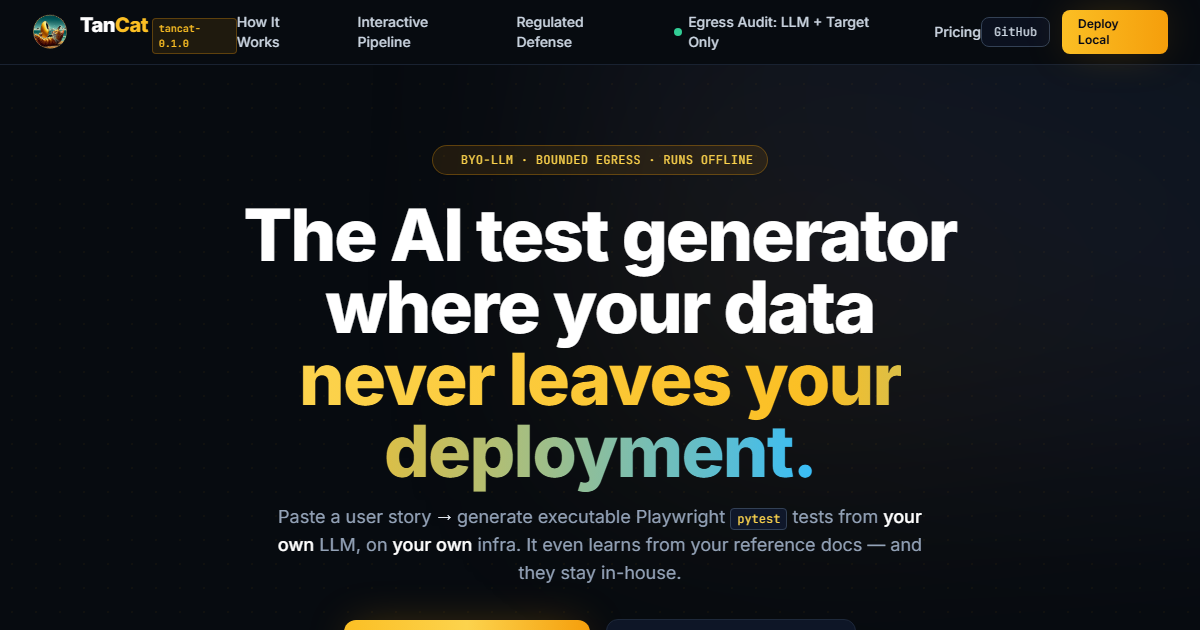
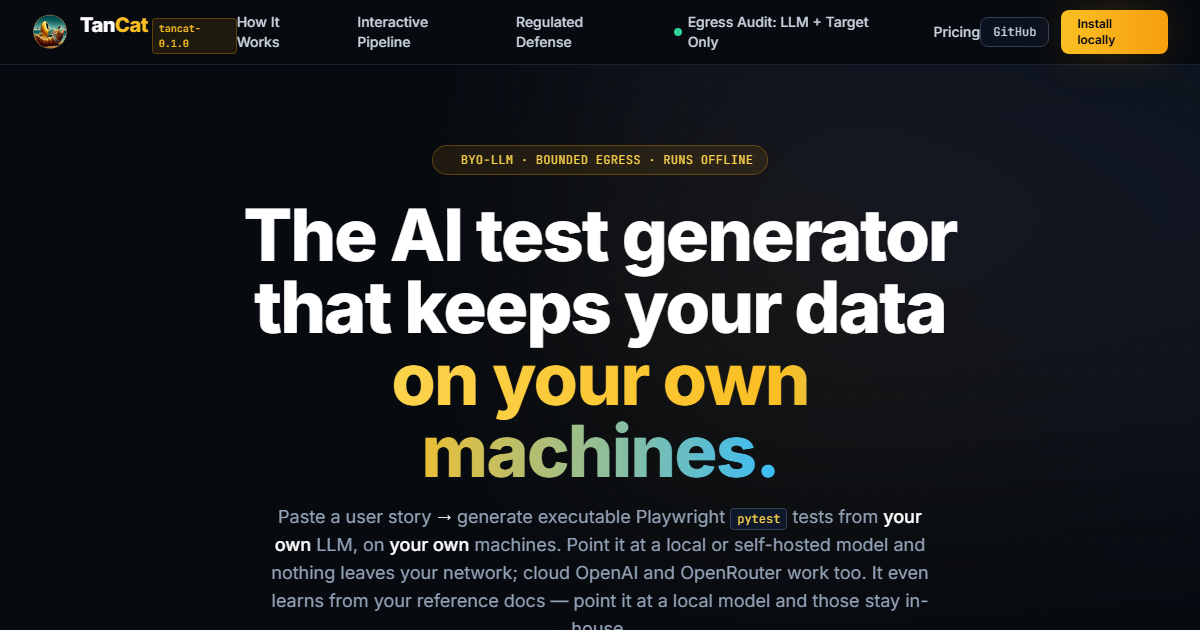
fix(landing): rewrite copy to what the code does (pre-launch review t-0390)
Owner chose to rewrite the copy to match the product; the entitlement gates are
deliberately NOT wired. Carried the two prerelease-landing fixes (f7e5ffe drop
air-gap wording, 7e7d142 rebuild assets) onto this branch first, so the badge and
asset work is not done twice.

Blockers
1. terms.html: the live placeholder ("we will name the provider here") is gone.
   Names Lemon Squeezy, links its terms, and adds a 30-day refund window.
   privacy.html names Lemon Squeezy as the merchant of record too. The processor
   line named jsDelivr, which the page never loads: it now names the real host,
   cdn.tailwindcss.com (self-hosting Tailwind is left as a follow-up - it needs a
   Tailwind build step and risks a visual change; the brief allows naming the host).
2. Headline qualified everywhere: title, meta description, og:title/description,
   twitter:title/description, og:image:alt, hero h1, hero subline and footer. The
   claim now says "keeps your data on your own machines", with the hero subline
   and meta stating the qualifier: point it at a local or self-hosted model and
   nothing leaves your network; cloud OpenAI and OpenRouter work too.
3. Free/Pro pricing rewritten to what the code enforces: Pro = unlimited runs,
   Jira evidence export, support and updates (POM/multi-site/CI dropped as Pro
   differentiators - they are not gated; Jira, which IS gated, added). Free = 25
   test runs per 30 days + unlimited evidence exports; the unenforced "10
[…]

diff --git a/landing/index.html b/landing/index.html
@@ -2,9 +2,9 @@
 <html class="scroll-smooth" lang="en"><head>
 <meta charset="utf-8"/>
 <meta content="width=device-width, initial-scale=1.0" name="viewport"/>
-<meta name="description" content="TanCat generates executable Playwright pytest tests from your user stories using your own LLM, inside your own network. Bounded egress, verified in CI."/>
+<meta name="description" content="TanCat generates executable Playwright pytest tests from your user stories with your own LLM, on your own machines. Point it at a local or self-hosted model and nothing leaves your network; cloud OpenAI and OpenRouter work too. Bounded egress, verified in CI."/>
 <meta name="theme-color" content="#070b10"/>
-<title>TanCat - The AI test generator where your data never leaves your deployment</title>
+<title>TanCat - The AI test generator that keeps your data on your own machines</title>
 <link rel="canonical" href="https://tancat.dev/"/>
 <link rel="icon" href="favicon.ico" sizes="any"/>
 <link rel="icon" href="icon-192.png" type="image/png" sizes="192x192"/>
@@ -13,16 +13,16 @@
 <meta property="og:site_name" content="TanCat"/>
 <meta property="og:locale" content="en_GB"/>
 <meta property="og:url" content="https://tancat.dev/"/>
-<meta property="og:title" content="TanCat - The AI test generator where your data never leaves your deployment"/>
-<meta property="og:description" content="Generate executable Playwright pytest tests from your user stories with your own LLM, inside your own network. Bounded egress, verified in CI."/>
+<meta property="og:title" content="TanCat - the AI test generator that keeps your data on your own machines"/>
+<meta property="og:description" content="Generate executable Playwright pytest tests from your user stories with your own LLM, on your own machines. Point it at a local or self-hosted model and nothing leaves your network; it also supports cloud OpenAI and OpenRouter. Bounded egress, verified in CI."/>
 <meta property="og:image" content="https://tancat.dev/og-card.png"/>
 <meta property="og:image:type" content="image/png"/>
 <meta property="og:image:width" content="1200"/>
 <meta property="og:image:height" content="630"/>
-<meta property="og:image:alt" content="TanCat landing page: the AI test generator where your data never leaves your deployment."/>
+<meta property="og:image:alt" content="TanCat landing page: the AI test generator that runs against your own machines and your own LLM."/>
 <meta name="twitter:card" content="summary_large_image"/>
-<meta name="twitter:title" content="TanCat - the AI test generator where your data never leaves your deployment"/>
-<meta name="twitter:description" content="Generate executable Playwright pytest tests from your user stories with your own LLM, inside your own network."/>
+<meta name="twitter:title" content="TanCat - the AI test generator that keeps your data on your own machines"/>
+<meta name="twitter:description" content="Generate executable Playwright pytest tests from your user stories with your own LLM, on your own machines. With a local or self-hosted model, nothing leaves your network."/>
 <meta name="twitter:image" content="https://tancat.dev/og-card.png"/>
 <script src="https://cdn.tailwindcss.com?plugins=forms,container-queries"></script>
 <script>
@@ -63,7 +63,7 @@
 </nav>
 <div class="flex items-center gap-3">
   <a class="inline-flex items-center gap-2 px-3 py-1.5 rounded-lg border border-slate-700 hover:border-slate-500 bg-slate-900/60 text-xs font-mono text-slate-300 hover:text-white transition-all" href="https://github.com/tancat-ai/tancat" rel="noopener noreferrer" target="_blank">GitHub</a>
-  <a class="inline-flex items-center justify-center px-4 py-1.5 text-xs font-semibold text-slate-950 bg-gradient-to-r from-amber-400 to-amber-500 rounded-lg shadow-amber-glow hover:brightness-110 active:scale-95 transition-all" href="#quickstart">Deploy Local</a>
+  <a class="inline-flex items-center justify-center px-4 py-1.5 text-xs font-semibold text-slate-950 bg-gradient-to-r from-amber-400 to-amber-500 rounded-lg shadow-amber-glow hover:brightness-110 active:scale-95 transition-all" href="#quickstart">Install locally</a>
 </div>
 </div>
 </header>
@@ -74,11 +74,11 @@
   <div class="inline-flex items-center gap-2 px-3.5 py-1.5 rounded-full border border-amber-500/30 bg-amber-500/10 text-amber-300 text-xs font-mono tracking-wide uppercase mb-6 shadow-sm">
     <span class="w-1.5 h-1.5 rounded-full bg-amber-400 animate-ping"></span> BYO-LLM &middot; BOUNDED EGRESS &middot; RUNS OFFLINE
   </div>
-  <h1 class="text-4xl sm:text-6xl lg:text-7xl font-extrabold tracking-tight text-white leading-[1.08]">The AI test generator where your data <br class="hidden sm:inline"/><span class="text-transparent bg-clip-text bg-gradient-to-r from-amber-300 via-amber-400 to-cyberBlue">never leaves your deployment.</span></h1>
-  <p class="mt-4 text-base sm:text-lg text-slate-400 font-normal leading-relaxed max-w-2xl mx-auto">Paste a user story <span class="text-slate-200">&rarr;</span> generate executable Playwright <code class="text-amber-300 font-mono text-xs bg-slate-900 px-1.5 py-0.5 rounded border border-slate-700">pytest</code> tests from <strong class="text-white font-medium">your own</strong> LLM, on <strong class="text-white font-medium">your own</strong> infra. It even learns from your reference docs &mdash; and they stay in-house.</p>
+  <h1 class="text-4xl sm:text-6xl lg:text-7xl font-extrabold tracking-tight text-white leading-[1.08]">The AI test generator that keeps your data <br class="hidden sm:inline"/><span class="text-transparent bg-clip-text bg-gradient-to-r from-amber-300 via-amber-400 to-cyberBlue">on your own machines.</span></h1>
+  <p class="mt-4 text-base sm:text-lg text-slate-400 font-normal leading-relaxed max-w-2xl mx-auto">Paste a user story <span class="text-slate-200">&rarr;</span> generate executable Playwright <code class="text-amber-300 font-mono text-xs bg-slate-900 px-1.5 py-0.5 rounded border border-slate-700">pytest</code> tests from <strong class="text-white font-medium">your own</strong> LLM, on <strong class="text-white font-medium">your own</strong> machines. Point it at a local or self-hosted model and nothing leaves your network; cloud OpenAI and OpenRouter work too. It even learns from your reference docs &mdash; point it at a local model and those stay in-house.</p>
   <div class="mt-8 flex flex-wrap items-center justify-center gap-4">
-    <a class="px-6 py-3.5 rounded-xl font-semibold text-sm text-slate-950 bg-gradient-to-r from-amber-400 via-amber-300 to-amber-500 hover:brightness-110 shadow-amber-glow active:scale-95 transition-all flex items-center gap-2" href="#quickstart">Get Started (Free &amp; Local) <svg class="w-4 h-4" fill="none" stroke="currentColor" viewbox="0 0 24 24"><path d="M14 5l7 7m0 0l-7 7m7-7H3" stroke-linecap="round" stroke-linejoin="round" stroke-width="2.5"></path></svg></a>
-    <a class="px-6 py-3.5 rounded-xl font-semibold text-sm text-slate-300 bg-slate-900/90 border border-slate-800 hover:border-slate-600 hover:text-white hover:bg-slate-800/80 transition-all flex items-center gap-2.5" href="#pipeline"><span class="w-5 h-5 rounded-full bg-slate-800 border border-slate-700 flex items-center justify-center text-[10px] text-amber-400">&#9654;</span> See the Interactive Demo</a>
+    <a class="px-6 py-3.5 rounded-xl font-semibold text-sm text-slate-950 bg-gradient-to-r from-amber-400 via-amber-300 to-amber-500 hover:brightness-110 shadow-amber-glow active:scale-95 transition-all flex items-center gap-2" href="#quickstart">Install locally <svg class="w-4 h-4" fill="none" stroke="currentColor" viewbox="0 0 24 24"><path d="M14 5l7 7m0 0l-7 7m7-7H3" stroke-linecap="round" stroke-linejoin="round" stroke-width="2.5"></path></svg></a>
+    <a class="px-6 py-3.5 rounded-xl font-semibold text-sm text-slate-300 bg-slate-900/90 border border-slate-800 hover:border-slate-600 hover:text-white hover:bg-slate-800/80 transition-all flex items-center gap-2.5" href="#pipeline"><span class="w-5 h-5 rounded-full bg-slate-800 border border-slate-700 flex items-center justify-center text-[10px] text-amber-400">&#9654;</span> See how it works</a>
   </div>
 </div>
 <div class="mt-12 relative max-w-5xl mx-auto">
@@ -134,7 +134,7 @@
   <div class="relative bg-cardbg border border-slate-800 p-6 rounded-2xl hover:border-cyberBlue/40 transition-all group">
     <div class="w-8 h-8 rounded-lg bg-cyberBlue/10 border border-cyberBlue/30 text-cyberBlue font-mono font-bold flex items-center justify-center mb-4">2</div>
     <h3 class="text-base font-semibold text-white group-hover:text-cyberBlue transition-colors">Generate against the live DOM</h3>
-    <p class="text-xs text-slate-400 mt-2 leading-relaxed">TanCat launches headless Chromium, inspects real DOM nodes, builds a page skeleton, and feeds exact attributes to your offline LLM. Score-gated resolution - no hallucinated IDs.</p>
+    <p class="text-xs text-slate-400 mt-2 leading-relaxed">TanCat launches headless Chromium, inspects real DOM nodes, builds a page skeleton, and feeds exact attributes to your own LLM. Resolution is score-gated: an unresolved criterion is reported as a skip, never as a guess.</p>
     <div class="mt-4 text-[11px] font-mono text-slate-500 bg-slate-900/80 p-2.5 rounded-lg border border-slate-800/80">Resolved: button[data-testid="revoke-access-confirm"]</div>
   </div>
   <div class="relative bg-cardbg border border-slate-800 p-6 rounded-2xl hover:border-emerald-400/40 transition-all group">
@@ -155,7 +155,7 @@
 <div class="rounded-2xl border border-slate-800 bg-cardbg shadow-2xl overflow-hidden code-glow">
   <div class="bg-slate-900 border-b border-slate-800 px-5 py-3 flex flex-wrap items-center justify-between gap-4">
     <div class="flex items-center gap-3"><span class="px-2.5 py-1 rounded bg-amber-500/15 border border-amber-500/30 text-amber-300 font-mono text-xs font-medium">Session: #TAN-8921</span><span class="text-xs text-slate-400 font-mono hidden sm:inline">Target: https://staging.internal.bank/portal/checkout</span></div>
-    <div class="flex items-center gap-2 text-xs font-mono"><span class="px-2 py-0.5 rounded bg-emerald-500/20 text-emerald-400 border border-emerald-500/30 flex items-center gap-1.5"><span class="w-1.5 h-1.5 rounded-full bg-emerald-400"></span> DOM Synthesized</span><span class="px-2.5 py-0.5 rounded bg-indigo-500/20 text-indigo-300 border border-indigo-500/30 text-[11px]">[Interactive Demo - Example BYO Model: Llama-3-70B-Q4 / Ollama / llama.cpp]</span></div>
+    <div class="flex items-center gap-2 text-xs font-mono"><span class="px-2 py-0.5 rounded bg-emerald-500/20 text-emerald-400 border border-emerald-500/30 flex items-center gap-1.5"><span class="w-1.5 h-1.5 rounded-full bg-emerald-400"></span> DOM Synthesized</span><span class="px-2.5 py-0.5 rounded bg-indigo-500/20 text-indigo-300 border border-indigo-500/30 text-[11px]">[Example BYO model: Llama-3-70B-Q4 / Ollama / llama.cpp]</span></div>
   </div>
   <div class="grid grid-cols-1 lg:grid-cols-12 divide-y lg:divide-y-0 lg:divide-x divide-slate-800">
     <div class="lg:col-span-3 p-5 bg-slate-950/40">
@@ -176,7 +176,7 @@
         <div class="text-slate-500">&lt;/form&gt;</div>
         <div class="text-slate-500 mt-2">&lt;dialog id="two-factor-dialog" class="modal-open"&gt;...&lt;/dialog&gt;</div>
       </div>
-      <div class="mt-3 flex items-center justify-between text-[11px] font-mono text-slate-400 px-1"><span>Ground-truth resolution:</span><span class="text-emerald-400 font-semibold">Deterministic (score-gated)</span></div>
+      <div class="mt-3 flex items-center justify-between text-[11px] font-mono text-slate-400 px-1"><span>Ground-truth resolution:</span><span class="text-emerald-400 font-semibold">Score-gated (a criterion that will not resolve is a skip)</span></div>
     </div>
     <div class="lg:col-span-5 p-5 bg-cardbg">
       <div class="flex items-center justify-between mb-3"><div class="flex items-center gap-2"><span class="text-xs font-mono font-semibold text-amber-300 uppercase tracking-wider">3. Playwright Pytest</span><span class="px-1.5 py-0.5 text-[10px] font-mono bg-emerald-500/20 text-emerald-400 rounded">PASSED</span></div><div class="flex gap-2"><span class="text-[11px] font-mono text-slate-300 border-b border-amber-400 pb-0.5">test_wire.py</span><span class="text-[11px] font-mono text-slate-500">junit.xml</span><span class="text-[11px] font-mono text-slate-500">report.html</span></div></div>
@@ -203,7 +203,7 @@
 <div class="text-center max-w-3xl mx-auto mb-16">
   <span class="text-xs font-mono text-amber-400 tracking-wider uppercase font-semibold">Security &amp; Architecture</span>
   <h2 class="text-3xl sm:text-4xl font-extrabold text-white mt-2">Built for the regulated buyer.</h2>
-  <p class="text-slate-400 text-sm mt-3">Every incumbent cloud SaaS routes your app's DOM through multi-tenant external servers. TanCat deploys on your infra, pointed at your local LLM, keeping sensitive customer data isolated.</p>
+  <p class="text-slate-400 text-sm mt-3">Most cloud test tools route your app's DOM through shared external servers. TanCat runs on your machines, pointed at your own LLM, so your customer data stays where you put it.</p>
 </div>
 <div class="grid grid-cols-1 md:grid-cols-3 lg:grid-cols-6 gap-6">
   <div class="md:col-span-3 lg:col-span-2 bg-cardbg rounded-2xl p-7 border border-slate-800 hover:border-amber-500/40 transition-all group flex flex-col justify-between">
@@ -212,7 +212,7 @@
   </div>
   <div class="md:col-span-3 lg:col-span-2 bg-cardbg rounded-2xl p-7 border border-slate-800 hover:border-cyberBlue/40 transition-all group flex flex-col justify-between">
     <div><div class="w-12 h-12 rounded-xl bg-cyberBlue/10 border border-cyberBlue/30 text-cyberBlue flex items-center justify-center text-xl mb-6 group-hover:scale-105 transition-transform">&#128737;</div><h3 class="text-lg font-bold text-white group-hover:text-cyberBlue transition-colors">Bounded Egress (Verified in CI)</h3><p class="text-slate-400 text-xs mt-2.5 leading-relaxed">Runtime outbound calls strictly limited to your local/self-hosted LLM endpoint and your target application. Verified by static code inspection in CI via <code class="text-cyberBlue font-mono text-[11px]">python scripts/audit_egress.py</code> (AST call-site static inspection) wired into smoke tests and CI.</p></div>
-    <div class="mt-6 pt-4 border-t border-slate-800/80 font-mono text-[11px] text-emerald-400 flex items-center gap-1.5"><span class="w-2 h-2 rounded-full bg-emerald-400"></span> Audit Gate: PASSING</div>
+    <div class="mt-6 pt-4 border-t border-slate-800/80 font-mono text-[11px] text-emerald-400 flex items-center gap-1.5"><span class="w-2 h-2 rounded-full bg-emerald-400"></span> Audit gate: run in CI</div>
   </div>
   <div class="md:col-span-3 lg:col-span-2 bg-cardbg rounded-2xl p-7 border border-slate-800 hover:border-neonViolet/40 transition-all group flex flex-col justify-between">
     <div><div class="w-12 h-12 rounded-xl bg-neonViolet/10 border border-neonViolet/30 text-neonViolet flex items-center justify-center text-xl mb-6 group-hover:scale-105 transition-transform">&#129665;</div><h3 class="text-lg font-bold text-white group-hover:text-neonViolet transition-colors">Self-Healing Locators</h3><p class="text-slate-400 text-xs mt-2.5 leading-relaxed">When design teams alter markup or CSS class names, TanCat calculates semantic affinity to reconcile and heal broken locators in staging before CI turns red.</p></div>
@@ -227,7 +227,7 @@
   <div class="md:col-span-3 lg:col-span-3 bg-cardbg rounded-2xl p-7 border border-slate-800 hover:border-cyberBlue/40 transition-all group">
     <div class="w-12 h-12 rounded-xl bg-cyberBlue/10 border border-cyberBlue/30 text-cyberBlue flex items-center justify-center text-xl mb-6 group-hover:scale-105 transition-transform">&#9881;</div>
     <h3 class="text-lg font-bold text-white group-hover:text-cyberBlue transition-colors">Native CI/CD Action &amp; POM Mode</h3>
-    <p class="text-slate-400 text-xs mt-2.5 leading-relaxed">Organizes test code into maintainable <strong class="text-slate-200">Page-Object-Model (POM)</strong> python classes automatically. Drop our reusable GitHub Action or GitLab Runner into your existing pipelines in minutes.</p>
+    <p class="text-slate-400 text-xs mt-2.5 leading-relaxed">Organizes test code into maintainable <strong class="text-slate-200">Page-Object-Model (POM)</strong> python classes automatically. Drop our reusable GitHub Action or GitLab CI template into your existing pipelines in minutes.</p>
     <div class="mt-4 flex gap-2"><span class="px-2 py-1 rounded bg-slate-900 border border-slate-800 text-[10px] font-mono text-slate-300">GitHub Actions</span><span class="px-2 py-1 rounded bg-slate-900 border border-slate-800 text-[10px] font-mono text-slate-300">GitLab CI</span><span class="px-2 py-1 rounded bg-slate-900 border border-slate-800 text-[10px] font-mono text-slate-300">POM Pattern</span></div>
   </div>
 </div>
@@ -274,18 +274,18 @@
   <div class="bg-cardbg rounded-2xl p-7 border border-slate-800 hover:border-slate-700 transition-all flex flex-col justify-between">
     <div><div class="text-xs font-mono uppercase text-slate-400 tracking-wider">Developer / OSS</div><h3 class="text-xl font-bold text-white mt-1">Free Community</h3><p class="text-slate-400 text-xs mt-2">For solo developers, or for local debugging.</p>
     <div class="my-6"><span class="text-4xl font-black text-white font-mono">$0</span><span class="text-slate-400 text-xs font-mono"> / forever</span></div>
-    <ul class="space-y-3 text-xs text-slate-300 font-mono"><li class="flex items-center gap-2 text-emerald-400"><span>&#10003;</span><span class="text-slate-300">25 runs / 10 machine-readable exports per 30 days</span></li><li class="flex items-center gap-2 text-emerald-400"><span>&#10003;</span><span class="text-slate-300">Unlimited HTML evidence reports</span></li><li class="flex items-center gap-2 text-emerald-400"><span>&#10003;</span><span class="text-slate-300">Self-healing + RAG DOM memory</span></li><li class="flex items-center gap-2 text-emerald-400"><span>&#10003;</span><span class="text-slate-300">BYO-LLM, bounded egress</span></li><li class="flex items-center gap-2 text-emerald-400"><span>&#10003;</span><span class="text-slate-300">Playwright Pytest test generator</span></li></ul></div>
-    <div class="mt-8"><a class="w-full block text-center py-2.5 px-4 rounded-xl text-xs font-semibold text-white bg-slate-800 hover:bg-slate-700 border border-slate-700 transition-colors" href="#quickstart">Install Locally</a></div>
+    <ul class="space-y-3 text-xs text-slate-300 font-mono"><li class="flex items-center gap-2 text-emerald-400"><span>&#10003;</span><span class="text-slate-300">25 test runs per 30 days</span></li><li class="flex items-center gap-2 text-emerald-400"><span>&#10003;</span><span class="text-slate-300">Unlimited evidence exports (CSV, NDJSON, JUnit, HTML)</span></li><li class="flex items-center gap-2 text-emerald-400"><span>&#10003;</span><span class="text-slate-300">Self-healing locators, remembers your site&rsquo;s DOM</span></li><li class="flex items-center gap-2 text-emerald-400"><span>&#10003;</span><span class="text-slate-300">Your own LLM, bounded egress</span></li><li class="flex items-center gap-2 text-emerald-400"><span>&#10003;</span><span class="text-slate-300">Playwright Pytest test generator</span></li></ul></div>
+    <div class="mt-8"><a class="w-full block text-center py-2.5 px-4 rounded-xl text-xs font-semibold text-white bg-slate-800 hover:bg-slate-700 border border-slate-700 transition-colors" href="#quickstart">Install locally</a></div>
   </div>
   <div class="bg-gradient-to-b from-cardbg to-slate-950 rounded-2xl p-7 border-2 border-amber-500/60 shadow-amber-glow transition-all flex flex-col justify-between relative">
     <div class="absolute -top-3 left-1/2 -translate-x-1/2 px-3 py-1 bg-amber-400 text-slate-950 text-[10px] font-mono font-bold uppercase rounded-full tracking-wider shadow-sm">Most Popular</div>
-    <div><div class="text-xs font-mono uppercase text-amber-400 tracking-wider">Engineering Team</div><h3 class="text-xl font-bold text-white mt-1">Pro Deployment</h3><p class="text-slate-400 text-xs mt-2">Unlimited internal runs across your sprint teams and staging CI pipelines.</p>
+    <div><div class="text-xs font-mono uppercase text-amber-400 tracking-wider">Engineering Team</div><h3 class="text-xl font-bold text-white mt-1">Pro Deployment</h3><p class="text-slate-400 text-xs mt-2">No run caps, and the Jira export, for teams that bill test work to a project.</p>
     <div class="my-6"><span class="text-4xl font-black text-white font-mono">$399</span><span class="text-slate-400 text-xs font-mono"> / month / deployment</span></div>
-    <ul class="space-y-3 text-xs text-slate-300 font-mono"><li class="flex items-center gap-2 text-emerald-400"><span>&#10003;</span><span class="text-slate-300">Unlimited runs &amp; evidence exports</span></li><li class="flex items-center gap-2 text-emerald-400"><span>&#10003;</span><span class="text-slate-300">POM mode &amp; multi-site suites</span></li><li class="flex items-center gap-2 text-emerald-400"><span>&#10003;</span><span class="text-slate-300">CI/CD Action (GitHub/GitLab)</span></li><li class="flex items-center gap-2 text-emerald-400"><span>&#10003;</span><span class="text-slate-300">Support &amp; updates while licensed</span></li></ul></div>
-    <div class="mt-8"><a class="w-full block text-center py-2.5 px-4 rounded-xl text-xs font-bold text-slate-950 bg-gradient-to-r from-amber-400 to-amber-300 hover:brightness-110 shadow-md transition-all" href="#contact">Request Pro License</a></div>
+    <ul class="space-y-3 text-xs text-slate-300 font-mono"><li class="flex items-center gap-2 text-emerald-400"><span>&#10003;</span><span class="text-slate-300">Unlimited test runs &amp; evidence exports</span></li><li class="flex items-center gap-2 text-emerald-400"><span>&#10003;</span><span class="text-slate-300">Jira evidence export</span></li><li class="flex items-center gap-2 text-emerald-400"><span>&#10003;</span><span class="text-slate-300">Support &amp; updates while licensed</span></li></ul></div>
+    <div class="mt-8"><a class="w-full block text-center py-2.5 px-4 rounded-xl text-xs font-bold text-slate-950 bg-gradient-to-r from-amber-400 to-amber-300 hover:brightness-110 shadow-md transition-all" href="#contact">Request a Pro licence</a></div>
   </div>
 </div>
-<div class="text-center mt-10 text-xs font-mono text-slate-500">* Per-deployment pricing, billed monthly. Prices exclude taxes.</div>
+<div class="text-center mt-10 text-xs font-mono text-slate-500">* Per-deployment pricing, billed monthly. Prices exclude taxes. A <strong class="text-slate-400">deployment</strong> is one installation serving one organisation.</div>
 <div class="text-center mt-6 text-sm text-slate-400">
   Need a custom, regulated or enterprise arrangement?
   <a class="text-amber-400 hover:text-amber-300 underline underline-offset-4" href="#contact">Talk to us</a>
@@ -327,12 +327,12 @@
 <div class="text-center max-w-2xl mx-auto mb-10">
   <span class="text-xs font-mono text-amber-400 tracking-wider uppercase font-semibold">Get Started</span>
   <h2 class="text-3xl sm:text-4xl font-extrabold text-white mt-2">Contact us</h2>
-  <p class="text-slate-400 text-sm mt-3">Tell us about your deployment &mdash; your stack, your LLM, whether it runs online or fully offline. We&rsquo;ll set you up with a license and point you to the right tier.</p>
+  <p class="text-slate-400 text-sm mt-3">Tell us about your deployment &mdash; your stack, your LLM, whether it runs online or fully offline. We&rsquo;ll set you up with a licence and point you to the right arrangement.</p>
 </div>
 <div class="mx-auto max-w-md bg-cardbg border border-slate-800 rounded-2xl p-6 text-center">
   <div class="text-xs font-mono text-slate-400 uppercase tracking-wider">Email us</div>
   <a class="mt-2 block text-lg font-bold text-amber-300 font-mono hover:text-amber-200 transition-colors" href="mailto:hello@tancat.dev">hello@tancat.dev</a>
-  <p class="mt-3 text-[11px] font-mono text-slate-500">We&rsquo;ll get back to you within 2 business days. Per-deployment pricing &middot; no per-seat charges.</p>
+  <p class="mt-3 text-[11px] font-mono text-slate-500">We reply as soon as we can. Per-deployment pricing &middot; no per-seat charges.</p>
   <p class="mt-2 text-[11px] font-mono text-slate-500">Your message is used only to answer you &mdash; see <a class="text-amber-300 hover:underline" href="privacy.html">Privacy</a>.</p>
 </div>
 </div>
@@ -341,14 +341,14 @@
 <div class="max-w-7xl mx-auto px-4 sm:px-6 lg:px-8 flex flex-col sm:flex-row items-center justify-between gap-6">
   <div class="flex items-center gap-3">
     <img alt="TanCat logo" class="w-6 h-6 rounded object-contain" src="logo_transparent.png"/>
-    <p class="font-mono text-slate-400">&copy; TanCat. The AI test generator where your data never leaves your deployment.</p>
+    <p class="font-mono text-slate-400">&copy; TanCat. The AI test generator that keeps your data on your own machines.</p>
   </div>
   <div class="flex flex-wrap items-center justify-center gap-x-6 gap-y-2 font-mono text-slate-400">
     <a class="hover:text-amber-400 transition-colors" href="https://github.com/tancat-ai/tancat" rel="noopener noreferrer" target="_blank">GitHub</a>
     <a class="hover:text-amber-400 transition-colors" href="https://github.com/tancat-ai/tancat/blob/main/docs/security/egress-audit.md" rel="noopener noreferrer" target="_blank">Egress Audit</a>
     <a class="hover:text-amber-400 transition-colors" href="https://github.com/tancat-ai/tancat/blob/main/SECURITY.md" rel="noopener noreferrer" target="_blank">Security</a>
-    <a class="hover:text-amber-400 transition-colors" href="#pipeline">Interactive Demo</a>
-    <a class="hover:text-amber-400 transition-colors" href="https://github.com/tancat-ai/tancat/blob/main/LICENSE" rel="noopener noreferrer" target="_blank">License (Apache-2.0)</a>
+    <a class="hover:text-amber-400 transition-colors" href="#pipeline">See how it works</a>
+    <a class="hover:text-amber-400 transition-colors" href="https://github.com/tancat-ai/tancat/blob/main/LICENSE" rel="noopener noreferrer" target="_blank">Licence (Apache-2.0)</a>
     <a class="hover:text-amber-400 transition-colors" href="privacy.html">Privacy</a>
     <a class="hover:text-amber-400 transition-colors" href="terms.html">Terms</a>
   </div>

diff --git a/landing/terms.html b/landing/terms.html
@@ -4,7 +4,7 @@
 <meta charset="utf-8"/>
 <meta name="viewport" content="width=device-width, initial-scale=1.0"/>
 <title>Terms of use - TanCat</title>
-<meta name="description" content="Terms of use for the tancat.dev website and for TanCat licenses: what each tier allows, what we warrant, and the limits of our liability."/>
+<meta name="description" content="Terms of use for the tancat.dev website and for TanCat licences: what each tier allows, what we warrant, and the limits of our liability."/>
 <meta name="theme-color" content="#070b10"/>
 <link rel="icon" href="favicon.ico" sizes="any"/>
 <link rel="icon" href="icon-192.png" type="image/png" sizes="192x192"/>
@@ -39,25 +39,25 @@ footer{margin-top:56px;padding-top:20px;border-top:1px solid #1e293b;font:12px u
 <h1>Terms of use</h1>
 <p class="meta">Last updated: 5 October 2026</p>
 
-<p>These terms cover the <strong>tancat.dev</strong> website and every <strong>TanCat</strong> license. By using the site or the software you accept them. If you do not accept them, do not use the software.</p>
+<p>These terms cover the <strong>tancat.dev</strong> website and every <strong>TanCat</strong> licence. By using the site or the software you accept them. If you do not accept them, do not use the software.</p>
 
 <div class="card">
-<p><strong>Who we are.</strong> TanCat is a sole-trader software business based in the United Kingdom. Contact: <a href="mailto:hello@tancat.dev">hello@tancat.dev</a>. See the <a href="privacy.html">privacy notice</a> for how we handle personal data.</p>
+<p><strong>Who we are.</strong> TanCat is a sole-trader software business based in the United Kingdom. Contact: <a href="mailto:hello@tancat.dev">hello@tancat.dev</a>. Postal address on request. See the <a href="privacy.html">privacy notice</a> for how we handle personal data.</p>
 </div>
 
 <h2>The software</h2>
 <p>TanCat is self-hosted software. It generates Playwright <code>pytest</code> tests from user stories, using an LLM that <em>you</em> supply. You run it on your own infrastructure. We do not host it, and we do not receive your source code, your stories, your test targets, or your evidence.</p>
 
-<h2>License tiers</h2>
+<h2>Licence tiers</h2>
 <table>
-<tr><th>Tier</th><th>License</th><th>Limits</th></tr>
-<tr><td>Free Community</td><td>Apache-2.0 (the open-source license in the <a href="https://github.com/tancat-ai/tancat/blob/main/LICENSE" rel="noopener">repository</a>)</td><td>25 runs and 10 evidence exports per 30 days</td></tr>
-<tr><td>Pro Deployment</td><td>Commercial per-deployment license, key issued by us</td><td>Unlimited runs for one deployment</td></tr>
+<tr><th>Tier</th><th>Licence</th><th>Limits</th></tr>
+<tr><td>Free Community</td><td>Apache-2.0 (the open-source licence in the <a href="https://github.com/tancat-ai/tancat/blob/main/LICENSE" rel="noopener">repository</a>)</td><td>25 test runs per 30 days; unlimited evidence exports</td></tr>
+<tr><td>Pro Deployment</td><td>Commercial per-deployment licence, key issued by us</td><td>Unlimited runs for one deployment; Jira evidence export</td></tr>
 </table>
 <p>Custom, regulated or enterprise arrangements are agreed case by case, not sold as a published tier. <a href="index.html#contact">Contact us</a>.</p>
 
 <h2>What a &ldquo;deployment&rdquo; is</h2>
-<p>One deployment is one installation of TanCat that serves one organization. You may not share, resell, sublicense, or publish a license key. A free-tier limit may not be reset to avoid a paid tier.</p>
+<p>One deployment is one installation of TanCat that serves one organization. You may not share, resell or publish a licence key. The free-tier limits are enforced locally by your own deployment, so a self-hoster can turn them off; they are a nudge, not a lock. We ask that you do not reset a limit to avoid paying for a paid tier.</p>
 
 <h2>Your responsibilities</h2>
 <ul>
@@ -73,16 +73,16 @@ footer{margin-top:56px;padding-top:20px;border-top:1px solid #1e293b;font:12px u
 <p>To the fullest extent the law allows, we are not liable for indirect or consequential loss, loss of profit, loss of data, or business interruption. Our total liability for any claim is limited to the amount you paid us in the 12 months before the claim. Nothing here limits liability that cannot be limited by law, including for death or personal injury caused by negligence, or for fraud.</p>
 
 <h2>Support</h2>
-<p>Email support for licensed tiers is provided at <a href="mailto:hello@tancat.dev">hello@tancat.dev</a>. We answer written inquiries within two business days. Anything beyond that is agreed in writing with you.</p>
+<p>Email support for licensed tiers is provided at <a href="mailto:hello@tancat.dev">hello@tancat.dev</a>. We reply as soon as we can. Anything beyond that is agreed in writing with you.</p>
 
 <h2>Payment and refunds</h2>
-<p>Paid licenses are sold through a merchant of record, which is the seller of record for the transaction and handles payment, tax, and refunds under its own terms. We will name the provider here and link its terms before any paid license goes on sale.</p>
+<p>Paid licences are sold through <a href="https://www.lemonsqueezy.com/terms" rel="noopener">Lemon Squeezy</a>, our merchant of record: the seller of record for the transaction, handling payment, tax and refunds under its own terms. If the software is not what you expected, contact us within 30 days of purchase and we will arrange a full refund through Lemon Squeezy. After 30 days, refunds are at our discretion and where the law requires one.</p>
 
-<h2>Ending the license</h2>
-<p>You may stop using the software at any time. We may end a paid license if you breach these terms or share a key, after written notice where the breach can be fixed. The free tier needs no license and cannot be withdrawn from you, because it is open source.</p>
+<h2>Ending the licence</h2>
+<p>You may stop using the software at any time. We may end a paid licence if you breach these terms or share a key, after written notice where the breach can be fixed. The free tier needs no licence and cannot be withdrawn from you, because it is open source.</p>
 
 <h2>Changes</h2>
-<p>We may update these terms. The date at the top changes with them. Changes apply to licenses bought after the change; a change never reduces the rights of a license you already hold for its term.</p>
+<p>We may update these terms. The date at the top changes with them. Changes apply to licences bought after the change; a change never reduces the rights of a licence you already hold for its term.</p>
 
 <h2>Governing law</h2>
 <p>These terms are governed by the law of England and Wales, and the courts of England and Wales have exclusive jurisdiction.</p>

diff --git a/landing/privacy.html b/landing/privacy.html
@@ -37,7 +37,7 @@ footer{margin-top:56px;padding-top:20px;border-top:1px solid #1e293b;font:12px u
 <a class="brand" href="index.html"><img alt="TanCat logo" src="logo_transparent.png"/><span>Tan<em>Cat</em></span></a>
 
 <h1>Privacy notice</h1>
-<p class="meta">Last updated: 23 September 2026</p>
+<p class="meta">Last updated: 5 October 2026</p>
 
 <p>This notice explains what personal data <strong>tancat.dev</strong> collects, why, and what rights you have. It covers the website only. The TanCat software runs inside <em>your</em> network: it sends data to your LLM endpoint and your target site, and to nowhere else. See the <a href="https://github.com/tancat-ai/tancat/blob/main/docs/security/egress-audit.md" rel="noopener">egress audit</a>.</p>
 
@@ -48,9 +48,9 @@ footer{margin-top:56px;padding-top:20px;border-top:1px solid #1e293b;font:12px u
 <h2>What this website collects</h2>
 <table>
 <tr><th>What</th><th>When</th><th>Why</th></tr>
-<tr><td>Your email address and the content of your message</td><td>Only if you email us</td><td>To answer you and, if you ask, to issue a license</td></tr>
+<tr><td>Your email address and the content of your message</td><td>Only if you email us</td><td>To answer you and, if you ask, to issue a licence</td></tr>
 <tr><td>IP address and standard request logs</td><td>Every visit</td><td>Kept by our host (GitHub Pages) for security and abuse prevention</td></tr>
-<tr><td>Name, email, and license details</td><td>Only if you buy a paid license</td><td>To sell you the license, issue the key, and meet tax duties</td></tr>
+<tr><td>Name, email, and licence details</td><td>Only if you buy a paid licence</td><td>To sell you the licence, issue the key, and meet tax duties</td></tr>
 </table>
 
 <p>There are no forms, no cookies, no analytics, and no advertising trackers on this site. We do not profile you and we make no automated decisions about you.</p>
@@ -58,8 +58,8 @@ footer{margin-top:56px;padding-top:20px;border-top:1px solid #1e293b;font:12px u
 <h2>Who else processes your data</h2>
 <ul>
 <li><strong>GitHub Pages</strong> hosts this site and keeps request logs. GitHub is a US company; its parent, Microsoft, applies the EU/UK standard contractual clauses.</li>
-<li><strong>jsDelivr</strong> serves the Tailwind CSS file, and <strong>Google Fonts</strong> serves the page fonts. Both see the IP address of every visitor as a normal part of serving those files.</li>
-<li><strong>Our payment provider</strong> (the merchant of record) sells the paid licenses and processes payment data. It is the seller of record, so we never see your card details.</li>
+<li><strong>cdn.tailwindcss.com</strong> serves the Tailwind CSS file, and <strong>Google Fonts</strong> serves the page fonts. Both see the IP address of every visitor as a normal part of serving those files.</li>
+<li><strong>Lemon Squeezy</strong> (our merchant of record) sells the paid licences and processes payment data. It is the seller of record, so we never see your card details.</li>
 <li><strong>Our email provider</strong> stores the mailbox behind <a href="mailto:hello@tancat.dev">hello@tancat.dev</a>.</li>
 </ul>
 <p>We do not sell personal data, and we do not share it with anyone else except where the law requires it.</p>
@@ -70,7 +70,7 @@ footer{margin-top:56px;padding-top:20px;border-top:1px solid #1e293b;font:12px u
 <h2>How long we keep it</h2>
 <ul>
 <li>Email inquiries: up to 24 months after the last reply.</li>
-<li>License and invoice records: for the license term, then as long as tax law requires (currently 6 years).</li>
+<li>Licence and invoice records: for the licence term, then as long as tax law requires (currently 6 years).</li>
 <li>Host request logs: set by GitHub, not by us.</li>
 </ul>
 

diff --git a/scripts/uat.py b/scripts/uat.py
@@ -88,7 +88,7 @@ SITES: dict[str, SiteConfig] = {
             "understand what the product is, how it works, and how to buy or install it."
         ),
         conditions=(
-            "1. Navigate to the TanCat landing page and verify the headline 'The AI test generator where your data never leaves your deployment' is visible\n"
+            "1. Navigate to the TanCat landing page and verify the headline 'The AI test generator that keeps your data on your own machines' is visible\n"
             "2. Click the 'How It Works' link in the header navigation\n"
             "3. Verify the 'How It Works' section with the 'Story → Generate → Run → Evidence → Export' heading is visible\n"
             "4. Click the 'Pricing' link in the header navigation\n"

diff --git a/SECURITY.md b/SECURITY.md
@@ -23,7 +23,7 @@ and patched before public disclosure. This protects users who may be running the
 **Option 1 — GitHub Private Vulnerability Reporting (preferred)**
 
 Use GitHub's built-in private reporting:
-[Report a vulnerability](https://github.com/lacattano/tancat-ai/tancat/security/advisories/new)
+[Report a vulnerability](https://github.com/tancat-ai/tancat/security/advisories/new)
 
 **Option 2 — Email**
 
